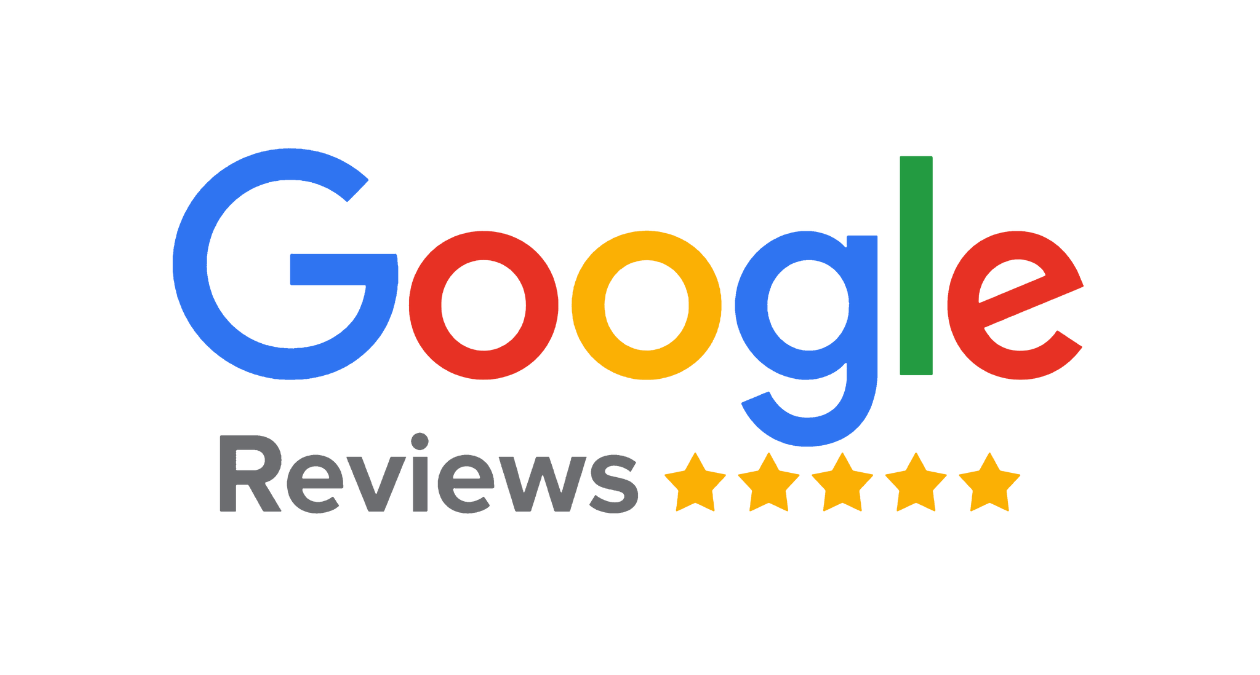
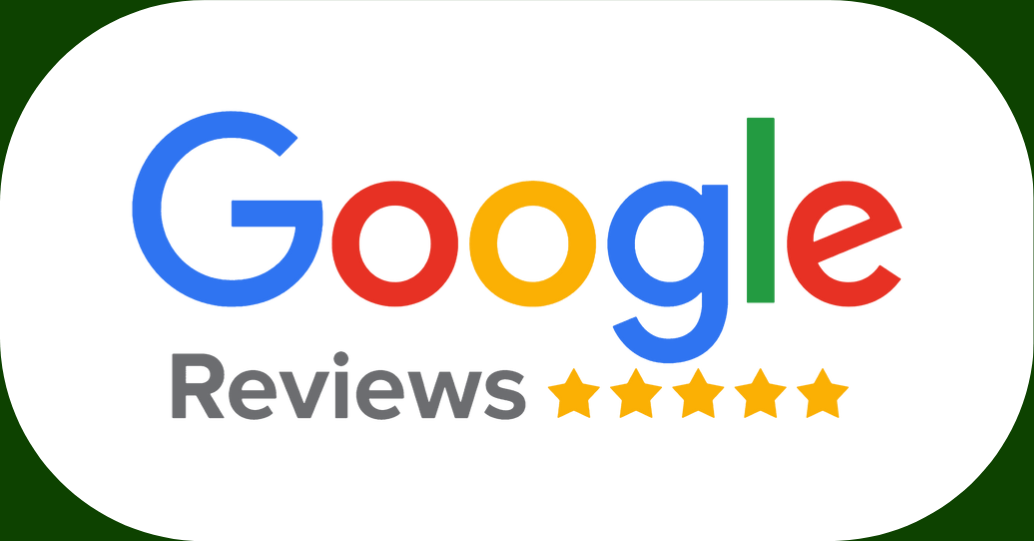
Improved the typo and google review image

diff --git a/src/components/pagesComponents/freeEstimate/FreeEstimateFinancing.tsx b/src/components/pagesComponents/freeEstimate/FreeEstimateFinancing.tsx
@@ -64,7 +64,7 @@ export default function FreeEstimateFinancing() {
             lineHeight={isDesktop ? "120%" : "20px"}
           >
             <strong>The Power of Choice.</strong> Select the timeline that fits
-            your budget while enjoying immediate evergy savings. Your
+            your budget while enjoying immediate energy savings. Your
             sustainable future starts with a plan that works for you.
           </Typography>
           <Box

diff --git a/src/components/reviews/ReviewsComponent.tsx b/src/components/reviews/ReviewsComponent.tsx
@@ -61,7 +61,7 @@ export const ReviewsComponent = ({ cat = 1 }: { cat?: number }) => {
                 marginRight: isDesktop ? "0" : "auto",
                 marginTop: "16px",
                 objectFit: "cover",
-                borderRadius: "41px",
+                // borderRadius: "41px",
                 display: "flex",
                 justifyContent: isDesktop ? "flex-start" : "center",
               }}

diff --git a/src/components/pagesComponents/freeEstimate/FreeEstimateAdvantage.tsx b/src/components/pagesComponents/freeEstimate/FreeEstimateAdvantage.tsx
@@ -36,7 +36,7 @@ export default function FreeEstimateAdvantage() {
           maxWidth={"600px"}
           mx={"auto"}
         >
-          At EcowaveUS, we simplify affordable electrification, helping you fild
+          At EcowaveUS, we simplify affordable electrification, helping you find
           the best combination for your home and budget
         </Typography>
         <Box
